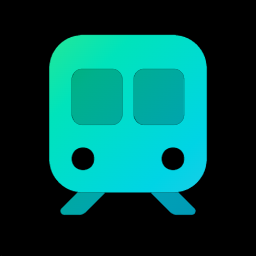
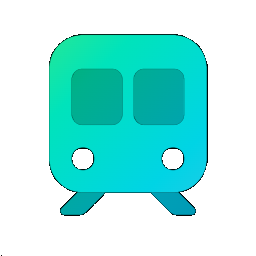
18.11.2024

diff --git a/index.html b/index.html
@@ -11,7 +11,6 @@
     <meta charset="UTF-8">
     <meta name="viewport" content="width=device-width, initial-scale=1.0">
     <title>Historical trains of Rügen</title>
-    <!--TODO: Remove the black from the picture-->
     <link rel="icon" type="image/x-icon" href="trainsubway-neo-springgreen-symbol-duotone.png">
     <link rel="stylesheet" href="css/font.css">
     <link rel="stylesheet" href="css/main.css">
@@ -19,40 +18,59 @@
 <body class="container">
 <!-- Uses a header that contracts as the page scrolls down. -->
 <style>
-    .demo-layout-waterfall .mdl-layout__header-row .mdl-navigation__link:last-of-type  {
-      padding-right: 0;
-    }
-</style>
-
-    <!--FIXME: Anderes Layout, welches mit einer Seitenleiste und link, mit einem Header der nicht veruscht-->
-    <div class="demo-layout-waterfall mdl-layout mdl-js-layout">
-      <header class="mdl-layout__header mdl-layout__header--waterfall">
-        <!-- Top row, always visible -->
-        <div class="mdl-layout__header-row">
-          <!-- Title -->
-          <span class="mdl-layout-title">
-            <span class="material-symbols-outlined">
-              train
-            </span>
+  .demo-layout-waterfall .mdl-layout__header-row .mdl-navigation__link:last-of-type  {
+    padding-right: 0;
+  }
+  </style>
+  
+  <div class="demo-layout-waterfall mdl-layout mdl-js-layout">
+    <header class="mdl-layout__header mdl-layout__header--waterfall">
+      <!-- Top row, always visible -->
+      <div class="mdl-layout__header-row">
+        <!-- Title -->
+        <span class="mdl-layout-title">
+          <span class="material-symbols-outlined">
+            train
           </span>
-          <div class="mdl-layout-spacer"></div>
-          <div class="mdl-textfield mdl-js-textfield mdl-textfield--expandable
-                      mdl-textfield--floating-label mdl-textfield--align-right">
-            <div class="mdl-textfield__expandable-holder">
-              <input class="mdl-textfield__input" type="text" name="sample"
-                     id="waterfall-exp">
-            </div>
+        </span>
+        <div class="mdl-layout-spacer">
+          
+        </div>
+        <div class="mdl-textfield mdl-js-textfield mdl-textfield--expandable mdl-textfield--floating-label mdl-textfield--align-right">
+          <div class="mdl-textfield__expandable-holder">
+            <input class="mdl-textfield__input" type="text" name="sample" id="waterfall-exp">
           </div>
         </div>
-      </header>
-      <main class="mdl-layout__content">
+      </div>
+      <!-- Bottom row, not visible on scroll -->
+      <div class="mdl-layout__header-row">
+        <div class="mdl-layout-spacer"></div>
+        <!-- Navigation -->
+        <nav class="mdl-navigation">
+          <a class="mdl-navigation__link" href="">Impressum</a>
+        </nav>
+      </div>
+    </header>
+    <div class="mdl-layout__drawer">
+      <span class="mdl-layout-title">
+        <span class="material-symbols-outlined">
+          train
+        </span>
+      </span>
+      <nav class="mdl-navigation">
+        <a class="mdl-navigation__link" href="">History</a>
+        <a class="mdl-navigation__link" href="">Collection</a>
+      </nav>
+    </div>
+    <main class="mdl-layout__content">
         <div class="titillium-web-regular page-content">
           <h4>History</h4>
           Train<br>
           Train Station<br>
           Railroad<br>
-        </div>
-      </main>
-    </div>
+      </div>
+    </main>
+  </div>
+
 </body>
 </html>
